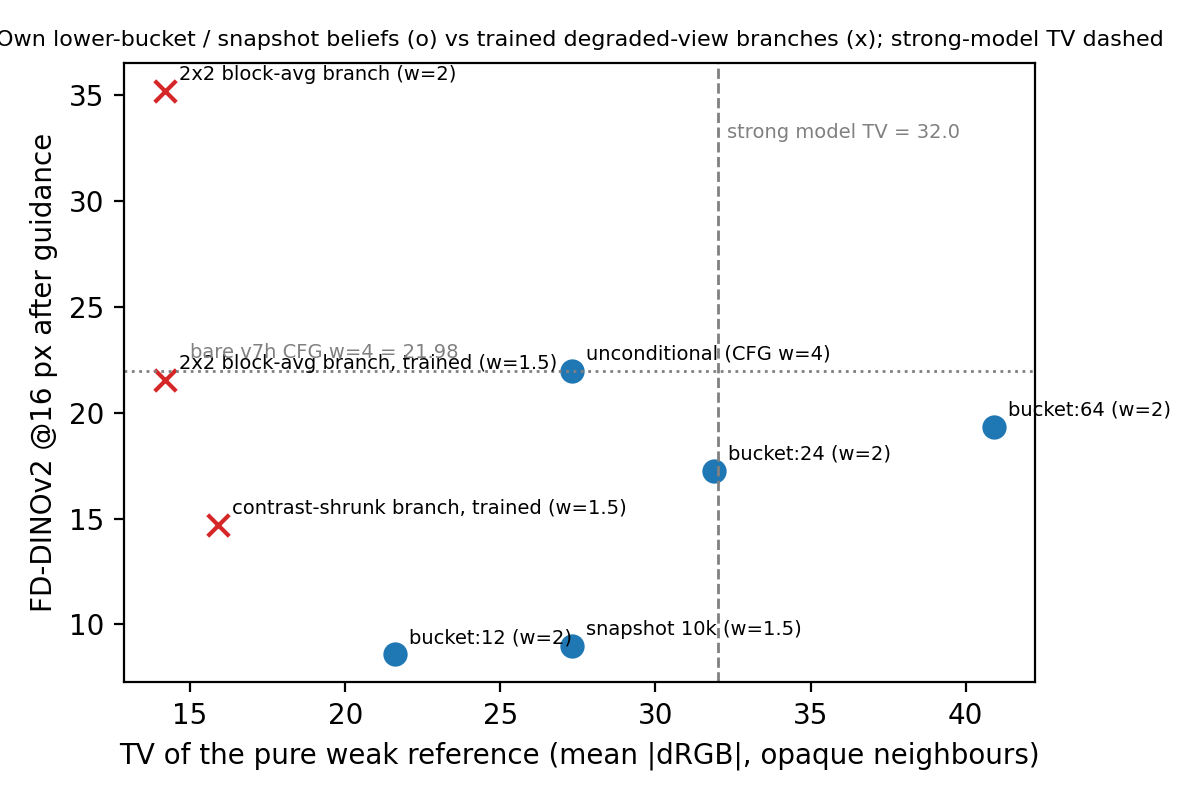
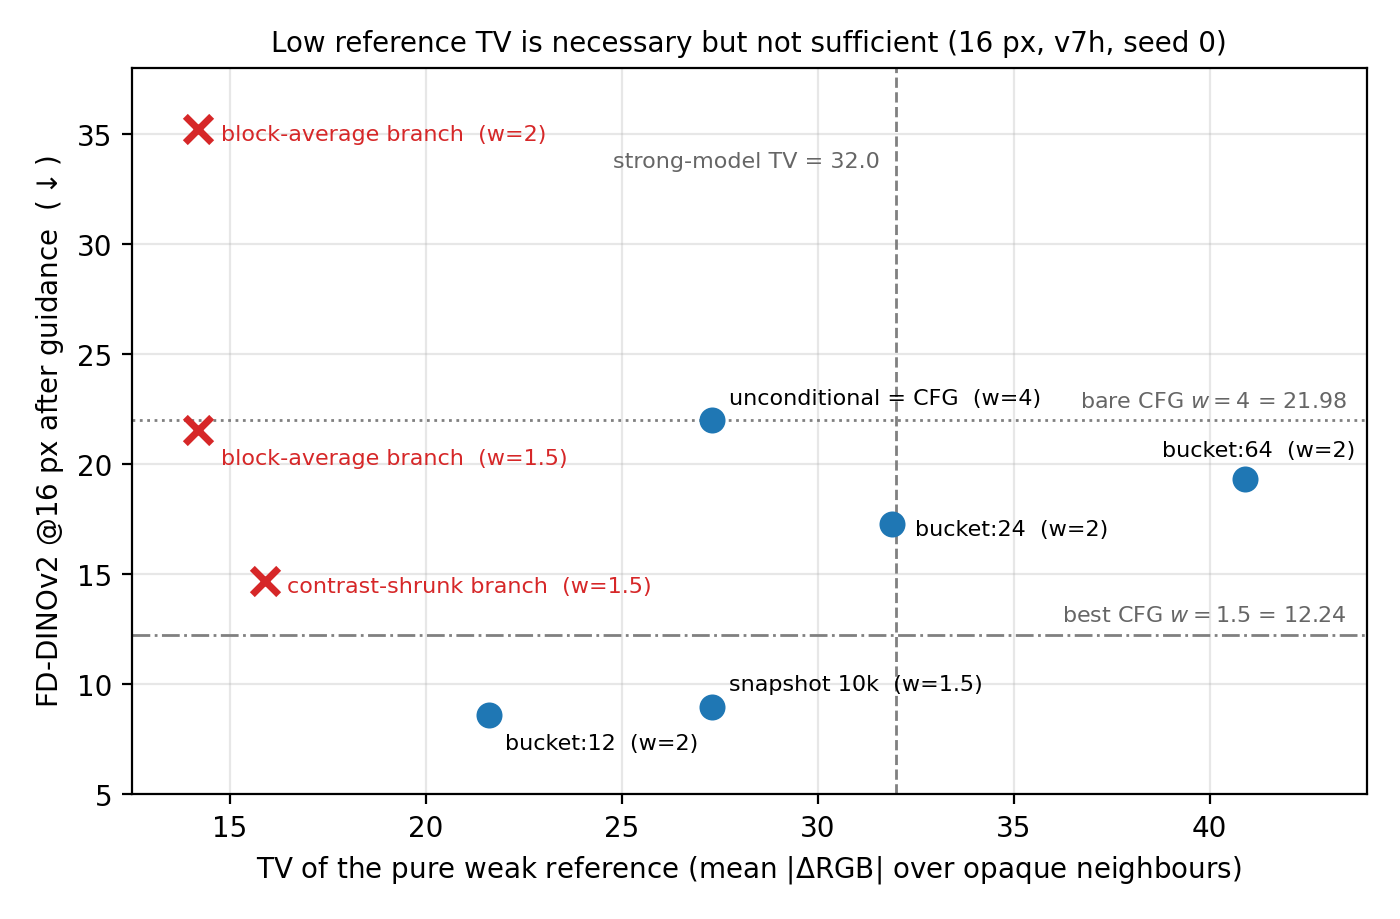
figure 3: caption said seven points, image has eight; regenerate with a committed script (make_tv_fd.py), add the best-CFG reference line, fix label collisions

diff --git a/paper_assets/make_tv_fd.py b/paper_assets/make_tv_fd.py
@@ -1,0 +1,61 @@
+"""TV of the pure weak reference vs the FD it produces when used as the guidance reference, 16 px (v7h, seed 0).
+
+Circles: references the model already contains (its own beliefs under another bucket label, an early snapshot, and the
+unconditional prediction that CFG uses).  Crosses: the two trained degraded-view branches of Sec. 5.4, whose training
+targets have the *lowest* TV of all and which nevertheless guide worst -- low reference TV is necessary, not sufficient.
+Numbers: experiment_log 09-07 14:20 (16 px beliefs), 09-07 13:11 (probe_cg), 09-07 19:05/19:35 (probe_cc), 09-08 19:05
+(CFG weight curve statistics).  Reproduces paper_assets/fig_tv_vs_fd.png (Figure 3); run from the repo root.
+"""
+import matplotlib
+
+matplotlib.use("Agg")
+import matplotlib.pyplot as plt
+
+STRONG_TV = 32.0          # TV of the CFG w=4 samples
+BARE_W4 = 21.98           # bare CFG at the training default
+BEST_CFG = 12.24          # bare CFG at its own FD optimum, w=1.5 -- the baseline the paper compares against
+# label -> (TV of the pure reference, FD after guidance, dx, dy) ; dx/dy are label offsets in points
+BELIEFS = {
+    "bucket:12  (w=2)": (21.6, 8.59, 6, -12),
+    "snapshot 10k  (w=1.5)": (27.3, 8.98, 6, 6),
+    "unconditional = CFG  (w=4)": (27.3, 21.98, 6, 6),
+    "bucket:24  (w=2)": (31.9, 17.27, 8, -4),
+    "bucket:64  (w=2)": (40.9, 19.34, -30, 8),
+}
+TRAINED = {
+    "block-average branch  (w=1.5)": (14.2, 21.53, 8, -12),
+    "block-average branch  (w=2)": (14.2, 35.22, 8, -4),
+    "contrast-shrunk branch  (w=1.5)": (15.9, 14.71, 8, -4),
+}
+
+
+def main():
+    fig, ax = plt.subplots(figsize=(7, 4.6))
+    for name, (tv, fd, dx, dy) in BELIEFS.items():
+        ax.scatter(tv, fd, s=70, c="tab:blue", zorder=3)
+        ax.annotate(name, (tv, fd), textcoords="offset points", xytext=(dx, dy), fontsize=8)
+    for name, (tv, fd, dx, dy) in TRAINED.items():
+        ax.scatter(tv, fd, s=90, c="tab:red", marker="x", linewidths=2.5, zorder=3)
+        ax.annotate(name, (tv, fd), textcoords="offset points", xytext=(dx, dy), fontsize=8, color="tab:red")
+    ax.axvline(STRONG_TV, color="0.5", ls="--", lw=1)
+    ax.annotate("strong-model TV = 32.0", (STRONG_TV, 33.5), xytext=(-6, 0), textcoords="offset points",
+                fontsize=8, color="0.4", ha="right")
+    ax.axhline(BARE_W4, color="0.5", ls=":", lw=1)
+    ax.annotate(f"bare CFG $w=4$ = {BARE_W4}", (43.5, BARE_W4), ha="right", xytext=(0, 5), textcoords="offset points",
+                fontsize=8, color="0.4")
+    ax.axhline(BEST_CFG, color="0.5", ls="-.", lw=1)
+    ax.annotate(f"best CFG $w=1.5$ = {BEST_CFG}", (43.5, BEST_CFG), ha="right", xytext=(0, 5), textcoords="offset points",
+                fontsize=8, color="0.4")
+    ax.set_xlabel(r"TV of the pure weak reference (mean $|\Delta$RGB$|$ over opaque neighbours)")
+    ax.set_ylabel(r"FD-DINOv2 @16 px after guidance  ($\downarrow$)")
+    ax.set_xlim(12.5, 44)
+    ax.set_ylim(5, 38)
+    ax.grid(alpha=0.3)
+    ax.set_title("Low reference TV is necessary but not sufficient (16 px, v7h, seed 0)", fontsize=10)
+    fig.tight_layout()
+    fig.savefig("paper_assets/fig_tv_vs_fd.png", dpi=200)
+    print("wrote paper_assets/fig_tv_vs_fd.png")
+
+
+if __name__ == "__main__":
+    main()

diff --git a/pixel_art_research_20260816/autonomy_state.md b/pixel_art_research_20260816/autonomy_state.md
@@ -83,7 +83,8 @@
   **下一 tick**: 两者出结果 → 表 3/4 换 3-seed 均值 + 按 citation_audit 处理未核实引用(核不到就删该句主张), 提交推送。
 - **09-09 05:10 本地 更新**: 文献核实**完**(experiment_log 04:45): refs.bib 45 条, 7 处不匹配已改(含 SDXL negative_original_size 效应写反、Sabour2025 查无此人、ScaleCrafter/PixelOE/SSG 归类错), PixDiffPIG2025 查无此文已删; **稿中 [cite?]/[TODO cite]/[TBD] 全部归零, 引用键与 bib 双向一一对应**。diag_review8 **完**(experiment_log 21:01): bucketu 3-seed 29.97±0.56 / 49.07±0.62 / 66.53±1.09, 已入表 4 与 §4.9。**GPU3 在跑 `diag_review9`**(~30 min): 补 32px 复合与 best-CFG 的 seed 1/2(此前只有 seed 0, 使"32px 双坐标占优"成了 3-seed vs 单 seed)。**下一 tick**: review9 出数 → 32px 三行全 3-seed 后重述该主张 → 之后论文侧只剩"最后 490 词取舍"与 OGA 许可审计(需人)。
 - **09-09 06:10 本地 更新**: diag_review9 **完**(experiment_log 22:01): 32px 三行全 3-seed → **头条 −17% 改善为 −20%**(复合 68.07±1.09 vs best-CFG 84.63±1.62), 摘要/表 2/outline 同步; bucketu@32 领先复合 1.55 但 sd 1.1 → 措辞降级为"提示性"。六个分节稿加 SUPERSEDED 抬头, **draft_full.md 为唯一真相源**。**GPU 全空, 实验清单已尽**。**论文侧剩余(均需人或定稿决定)**: ① 最后 ~490 词取舍; ② OGA 逐资产许可审计; ③ #11 人评。**下一 tick 建议**: 无 GPU 待办时做低风险收尾 —— 检查 fig_tv_vs_fd 等图注与新数字一致、附录与主表重复内容去重、通读一遍 draft_full 找逻辑断点。
-- **更新时间**: 2026-09-09 06:10 本地 (服务器 09-08 22:10 UTC)
+- **09-09 06:40 本地 更新**: 收尾第一项完(experiment_log 06:35): 图 3 图注错误(七点 vs 实际八点)已改, 补上缺失的生成脚本 make_tv_fd.py 并加 best-CFG 基准线; 其余四类图核对无误。**下一 tick**: 通读 draft_full.md 找逻辑断点/前后矛盾(不改数字), 以及附录与主表重复内容去重。
+- **更新时间**: 2026-09-09 06:40 本地 (服务器 09-08 22:40 UTC)
 
 ## 历史(每 cycle 一行)
 - cycle 0 (09-05~06): 有序离散 v_ord 探针 → 252.3 杀; 连续+TV/调色板双探针 → 旧指标 70.65/66.26 "杀"(**后证 TV 被误杀, 公平 FD 42.82 优于 v7 53.21**)。

diff --git a/paper_assets/draft_full.md b/paper_assets/draft_full.md
@@ -199,7 +199,7 @@ We sample each candidate reference alone (`--cfg 0`, following $e_{\text{ref}}$ 
 
 Figure 3 plots pure-reference TV against the FD obtained when that reference guides, at 16 px; normalising per resolution — $x = \mathrm{TV}_{\text{ref}}/\mathrm{TV}_{\text{strong}}$, $y = \mathrm{FD}_{\text{guided}}/\mathrm{FD}_{\text{bare}}$ — every one of the ten bucket and snapshot references at 16 / 20 / 24 px with $x < 1$ gives $y < 1$, and every one with $x \ge 1$ gives $y \approx 1$ or $y > 1$ (Appendix Figure A6). This is a characterisation, not a mechanism: TV co-varies with usefulness across hand-chosen references, and “necessary” is inferred from two failures per resolution. The single violation is the unconditional prediction, TV 27.3 — as low as the snapshot — yet far less gain (12.24 at the best CFG weight against 8.98): guidance extrapolates along the *difference* between the two predictions, a contrast correction only when they agree on everything but contrast, and the unconditional branch differs in text as well (Appendix A.8).
 
-**Figure 3.** TV of the pure weak reference against FD-DINOv2 after guidance, 16 px (`fig_tv_vs_fd.png`, seven points). Circles: the model's own beliefs (bucket:12, snapshot 10 k, unconditional via CFG $w = 4$, bucket:24, bucket:64); crosses: the two trained degraded-view branches of §5.4 (block-average and contrast-shrunk, both at $w = 1.5$). Dashed: strong-model TV 32.0; dotted: bare CFG $w = 4$, 21.98. Every same-caption belief left of the dashed line helps; the trained branches with the lowest TV do not.
+**Figure 3.** TV of the pure weak reference against FD-DINOv2 after guidance, 16 px (`fig_tv_vs_fd.png`, script `make_tv_fd.py`; eight points). Circles: references the model already contains (bucket:12, snapshot 10 k, the unconditional prediction that CFG uses, bucket:24, bucket:64); crosses: the trained degraded-view branches of §5.4 (block-average at $w = 1.5$ and $w = 2$, contrast-shrunk at $w = 1.5$). Dashed vertical: strong-model TV 32.0; dotted: bare CFG $w = 4$, 21.98; dash-dotted: best CFG $w = 1.5$, 12.24. Every reference the model already contains that sits left of the dashed line beats best CFG; the trained branches, whose targets have the lowest TV of all, do not.
 
 ### 5.3 What each reference corrects
 

diff --git a/pixel_art_research_20260816/experiment_log.md b/pixel_art_research_20260816/experiment_log.md
@@ -1720,3 +1720,8 @@ GPU2 空(diag_review3 完)。
 - **32px 头条数字由 −17% 改善为 −20%**(复合 68.07 vs best-CFG 84.63); 摘要/表 2/outline 已同步(40/27/29/**20** %)。
 - bucketu 变体 66.53 仍优于复合 68.07, 但差 1.55 而两行 seed sd 均 1.1 → 稿中如实写成"均值领先, 但相对 seed 噪声只是提示性而非决定性", 不再声称 32px "双坐标占优"是硬结论。
 - 六个分节稿 draft_*.md 已加 SUPERSEDED 抬头: **draft_full.md 为唯一真相源**(分节稿里 32px 仍是旧的 69.27/83.65, 不再维护)。
+
+## 09-09 06:35 本地 收尾: 图 3 重画并补生成脚本
+- **发现图注错误**: review_pass2 依 outline 描述把图 3 说明改成"七点(2 个叉)", 但 PNG 实为**八点(3 个叉)**(块平均分支 w1.5 与 w2 两点 + 对比度收缩分支)。原图 09-08 03:35 生成时**未提交脚本**(commit 7edf37b 只有 PNG), 无法核对 —— 属可复现性缺口。
+- 补 `paper_assets/make_tv_fd.py` 重画: 八点齐全、标签不重叠、除 w=4 虚线外**新增 best-CFG w1.5 = 12.24 基准线**(本文基线已改为 best-CFG, 只画 21.98 会低估门槛)。图注同步改正, 并把结论句改成"模型自带的、位于虚线左侧的参考都优于 best-CFG; 训练分支(TV 最低)不然"。
+- 核对其余图: fig_pareto_fd_clip(16px, seed0)/fig_pareto_allR(12-32px, seed0)/fig_qual_*(9 行含 best-CFG 与 bucketu) 与正文数字一致, 无需改。
